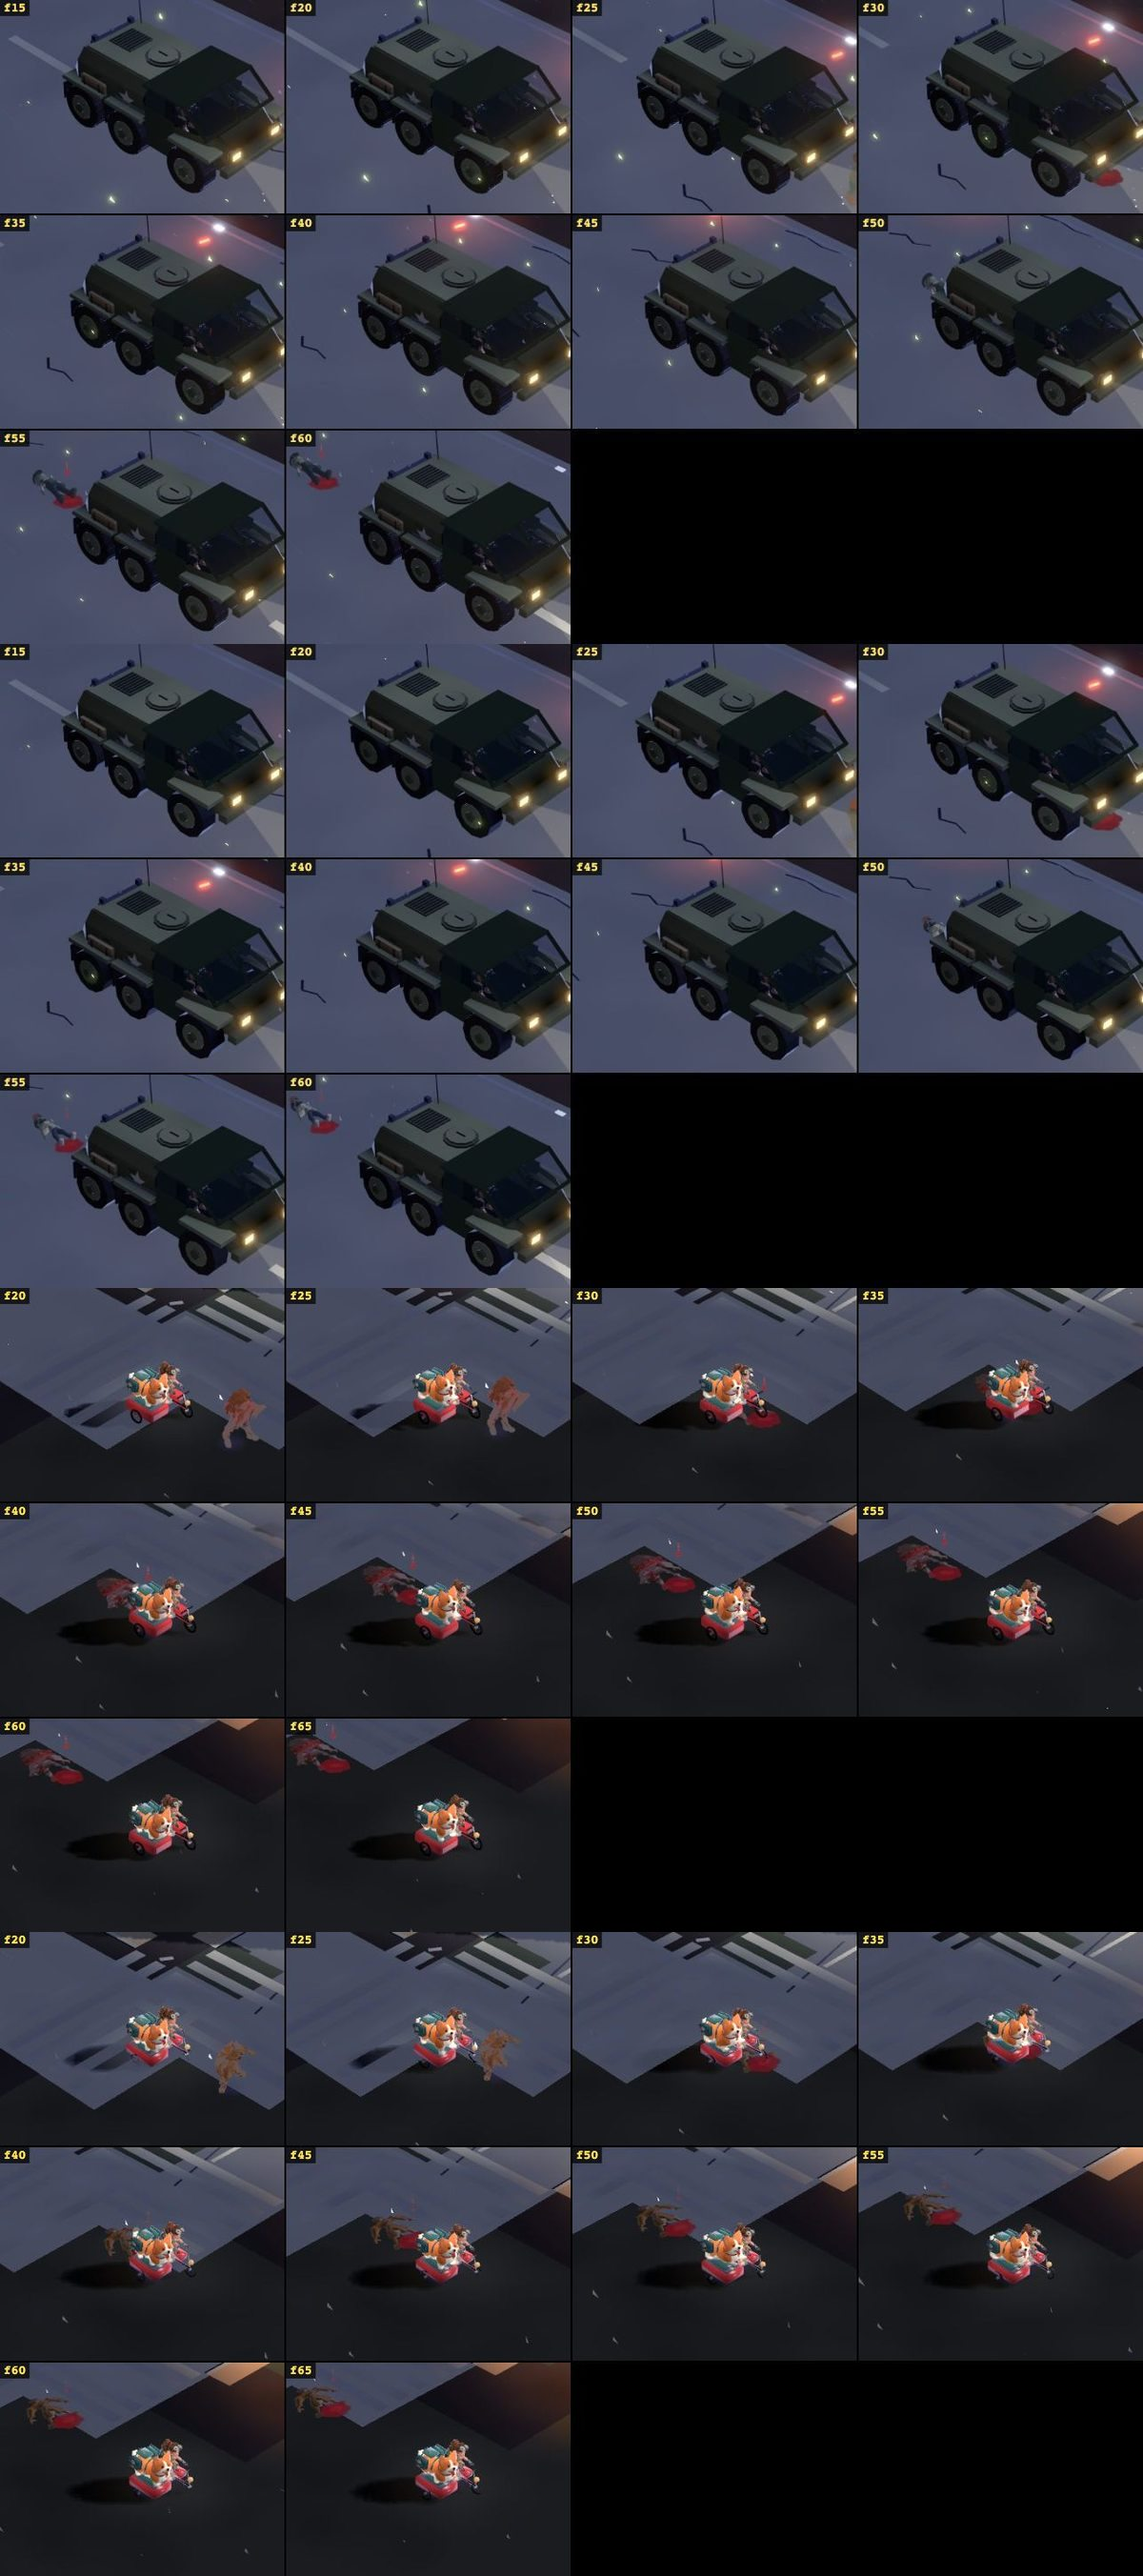
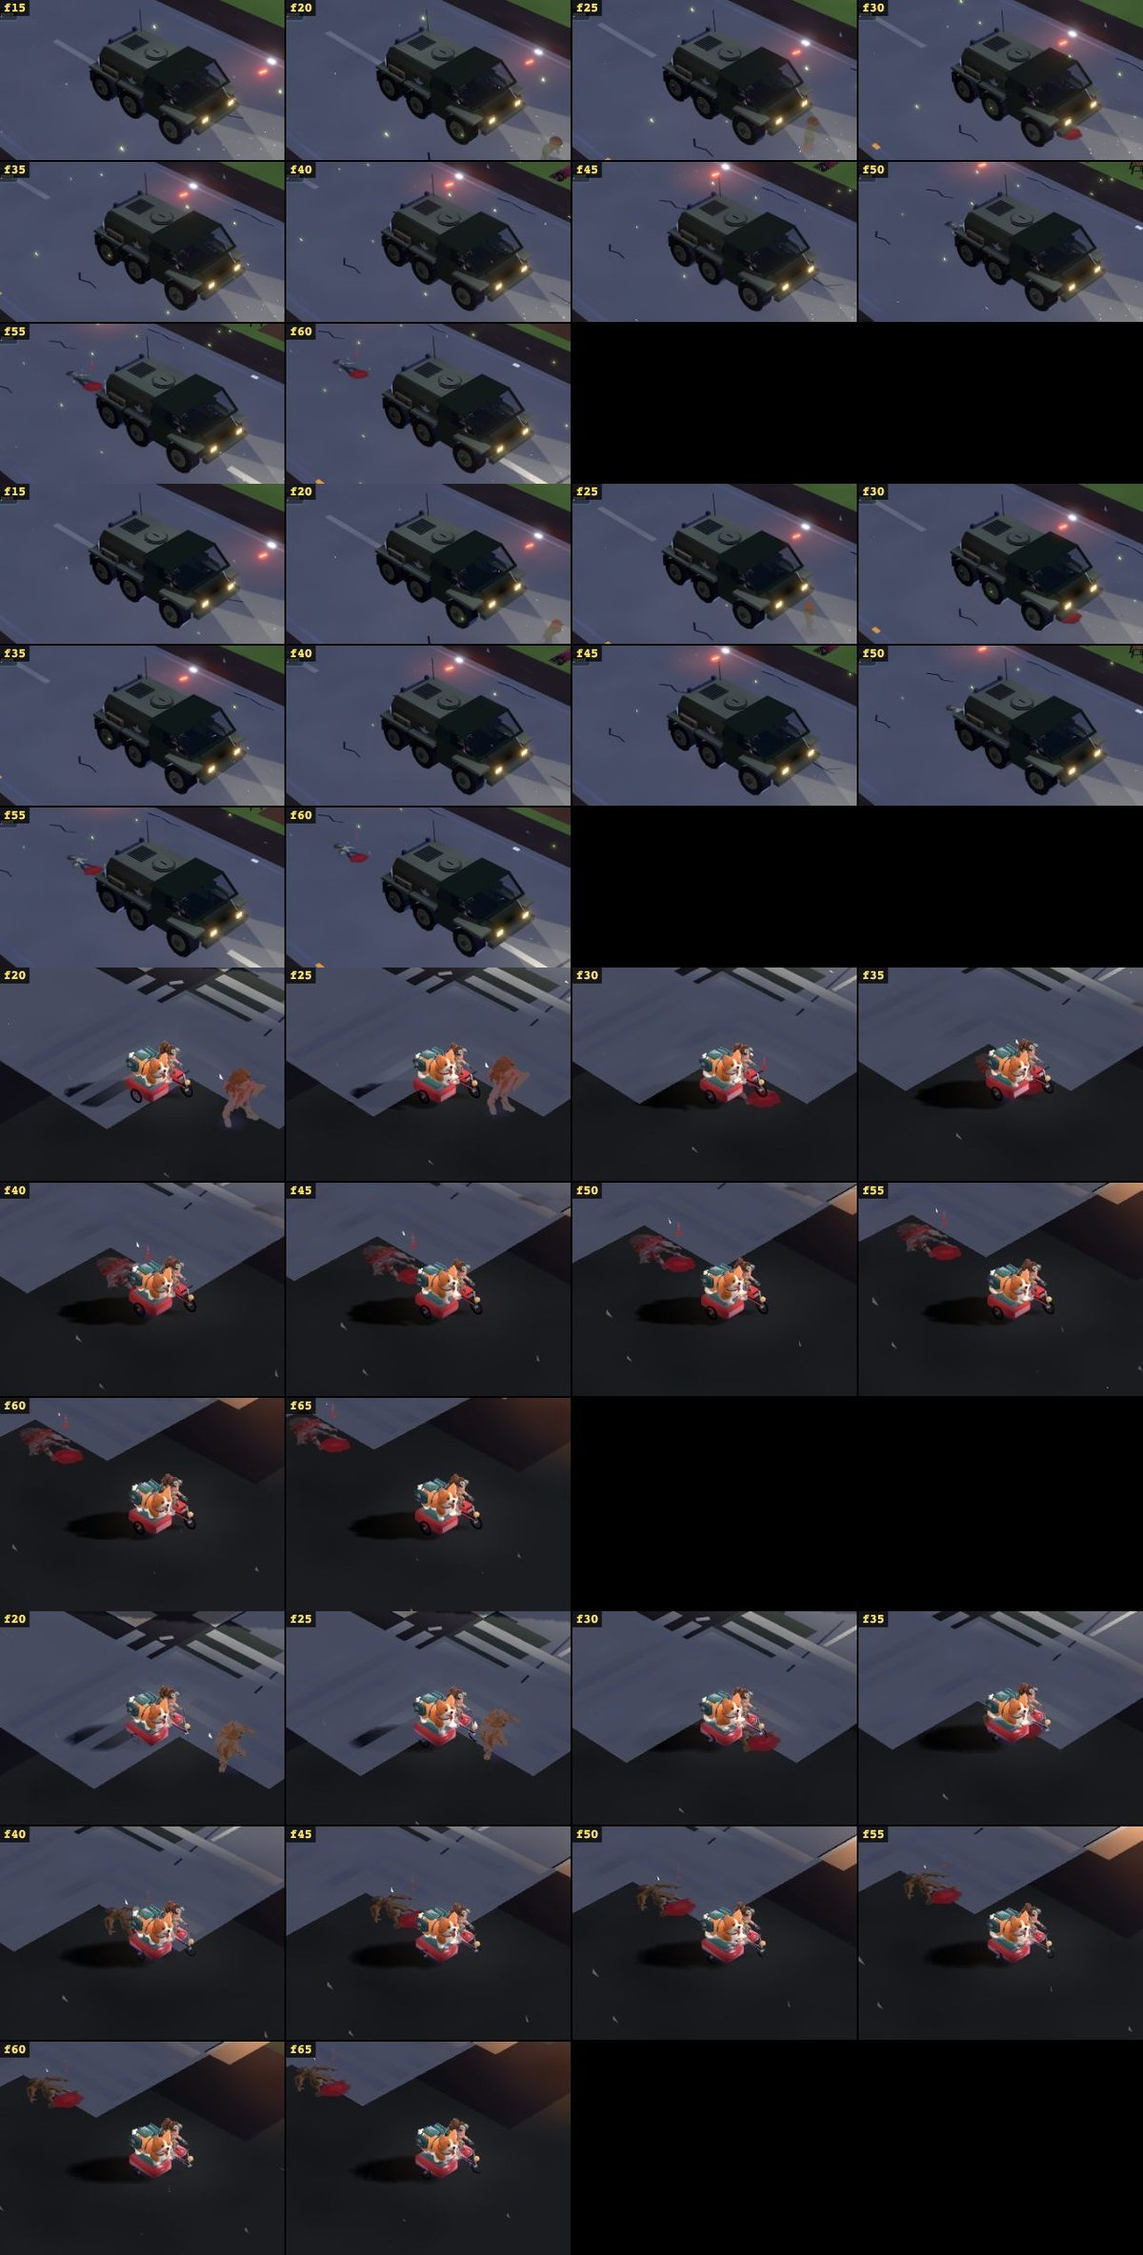
Show L9 victim before vehicle impact

diff --git a/tools/qa/s232-l9-capture.ts b/tools/qa/s232-l9-capture.ts
@@ -22,7 +22,7 @@ try {
   for (let frame = 0; frame <= 90; frame++) {
     if (frame) await s.page.evaluate(async () => window.__SS__!.step(1));
     motion.push(await s.page.evaluate(frame => { const w = (window.__SCENE__ as unknown as { game: Game }).game.world, car = w.vehicles!.cars.get(w.missions!.l9!.state.carId)!; return { frame, tick: w.tick, y: car.physics.body.translation().y, vy: car.physics.body.linvel().y }; }, frame));
-    if (frame >= 15 && frame <= 60 && frame % 5 === 0) { await s.ready(); cells.push({ frame, jpeg: await s.page.screenshot({ type: 'jpeg', quality: 82, clip: { x: 400, y: 180, width: 480, height: 360 } }) }); }
+    if (frame >= 15 && frame <= 60 && frame % 5 === 0) { await s.ready(); cells.push({ frame, jpeg: await s.page.screenshot({ type: 'jpeg', quality: 82, clip: { x: 280, y: 140, width: 720, height: 405 } }) }); }
   }
   await s.page.keyboard.up('KeyW');
   const result = await s.page.evaluate(() => { const w = (window.__SCENE__ as unknown as { game: Game }).game.world, probe = (window as unknown as { s232: { id: number; hits: unknown[] } }).s232, e = w.entities.get(probe.id), car = w.vehicles!.cars.get(w.missions!.l9!.state.carId)!; return { ...probe, target: e && { health: e.health, corpse: e.corpse, squashed: e.squashed, transform: e.transform }, car: { speed: car.physics.speed, upsideDown: car.physics.upsideDown, transform: car.entity.transform } }; });

diff --git a/docs/reports/s232-vehicle-squash/README.md b/docs/reports/s232-vehicle-squash/README.md
@@ -62,6 +62,8 @@
 
 - Decoded the actual Opus and AAC sprite cue windows with FFmpeg `volumedetect`: hit (0–0.50 s) measures −16.4/−16.2 dBFS mean and −4.3/−4.3 dBFS peak; run-over (0.58–1.23 s) measures −20.9/−20.8 dBFS mean and −4.7/−4.6 dBFS peak, respectively. Both codecs contain non-silent content at the registry offsets; these values are before runtime gain and cannot establish perceived clarity in the game mix.
 
+- Refreshed L9 HIGH then LOW at zoom 1 with a wider crop after the pooling fix. In the [sheet](sheet.jpg), the runner is visible ahead in frame 25, blood appears at the front in frame 30, and the flattened corpse appears behind by frames 50–60. Both controlled runs recorded the hit at tick 147, retained the corpse, kept the APC upright and logged no browser errors ([HIGH](l9-high.json), [LOW](l9-low.json)). The sampled bump remains 3.8 cm.
+
 ## Open acceptance
 
 - Listen to the sound mix in the game to assess its subjective clarity. The bike bump is measured in the native motion samples, although it remains subtle in stills.
